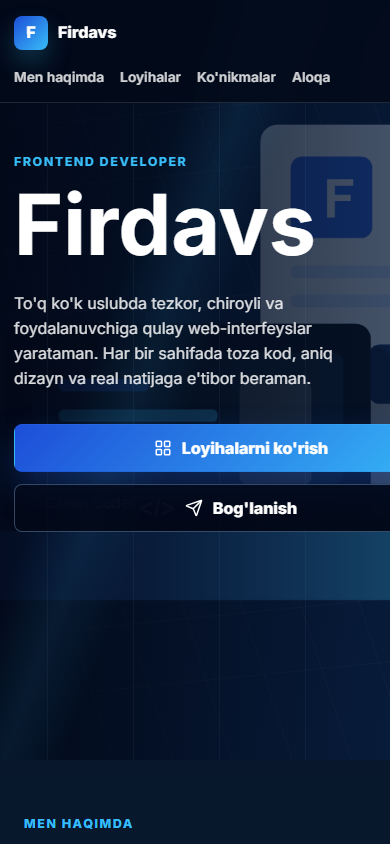
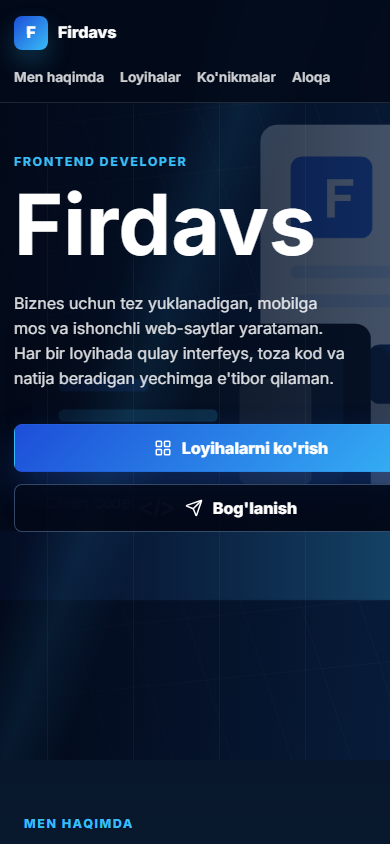
Polish hero copy and stack chips

Changed region(s): [[0.0308, 0.3389, 0.8923, 0.4621]]

diff --git a/index.html b/index.html
@@ -43,9 +43,9 @@
           <p class="eyebrow">Frontend developer</p>
           <h1>Firdavs</h1>
           <p class="hero-copy">
-            To'q ko'k uslubda tezkor, chiroyli va foydalanuvchiga qulay
-            web-interfeyslar yarataman. Har bir sahifada toza kod, aniq dizayn
-            va real natijaga e'tibor beraman.
+            Biznes uchun tez yuklanadigan, mobilga mos va ishonchli web-saytlar
+            yarataman. Har bir loyihada qulay interfeys, toza kod va natija
+            beradigan yechimga e'tibor qilaman.
           </p>
           <div class="hero-actions" aria-label="Asosiy harakatlar">
             <a class="button primary" href="#work">
@@ -161,8 +161,7 @@
           <span>JavaScript</span>
           <span>Responsive UI</span>
           <span>Git</span>
-          <span>Figma</span>
-          <span>SEO asoslari</span>
+          <span>sampi-medline.vercel.app</span>
           <span>Performance</span>
         </div>
       </section>